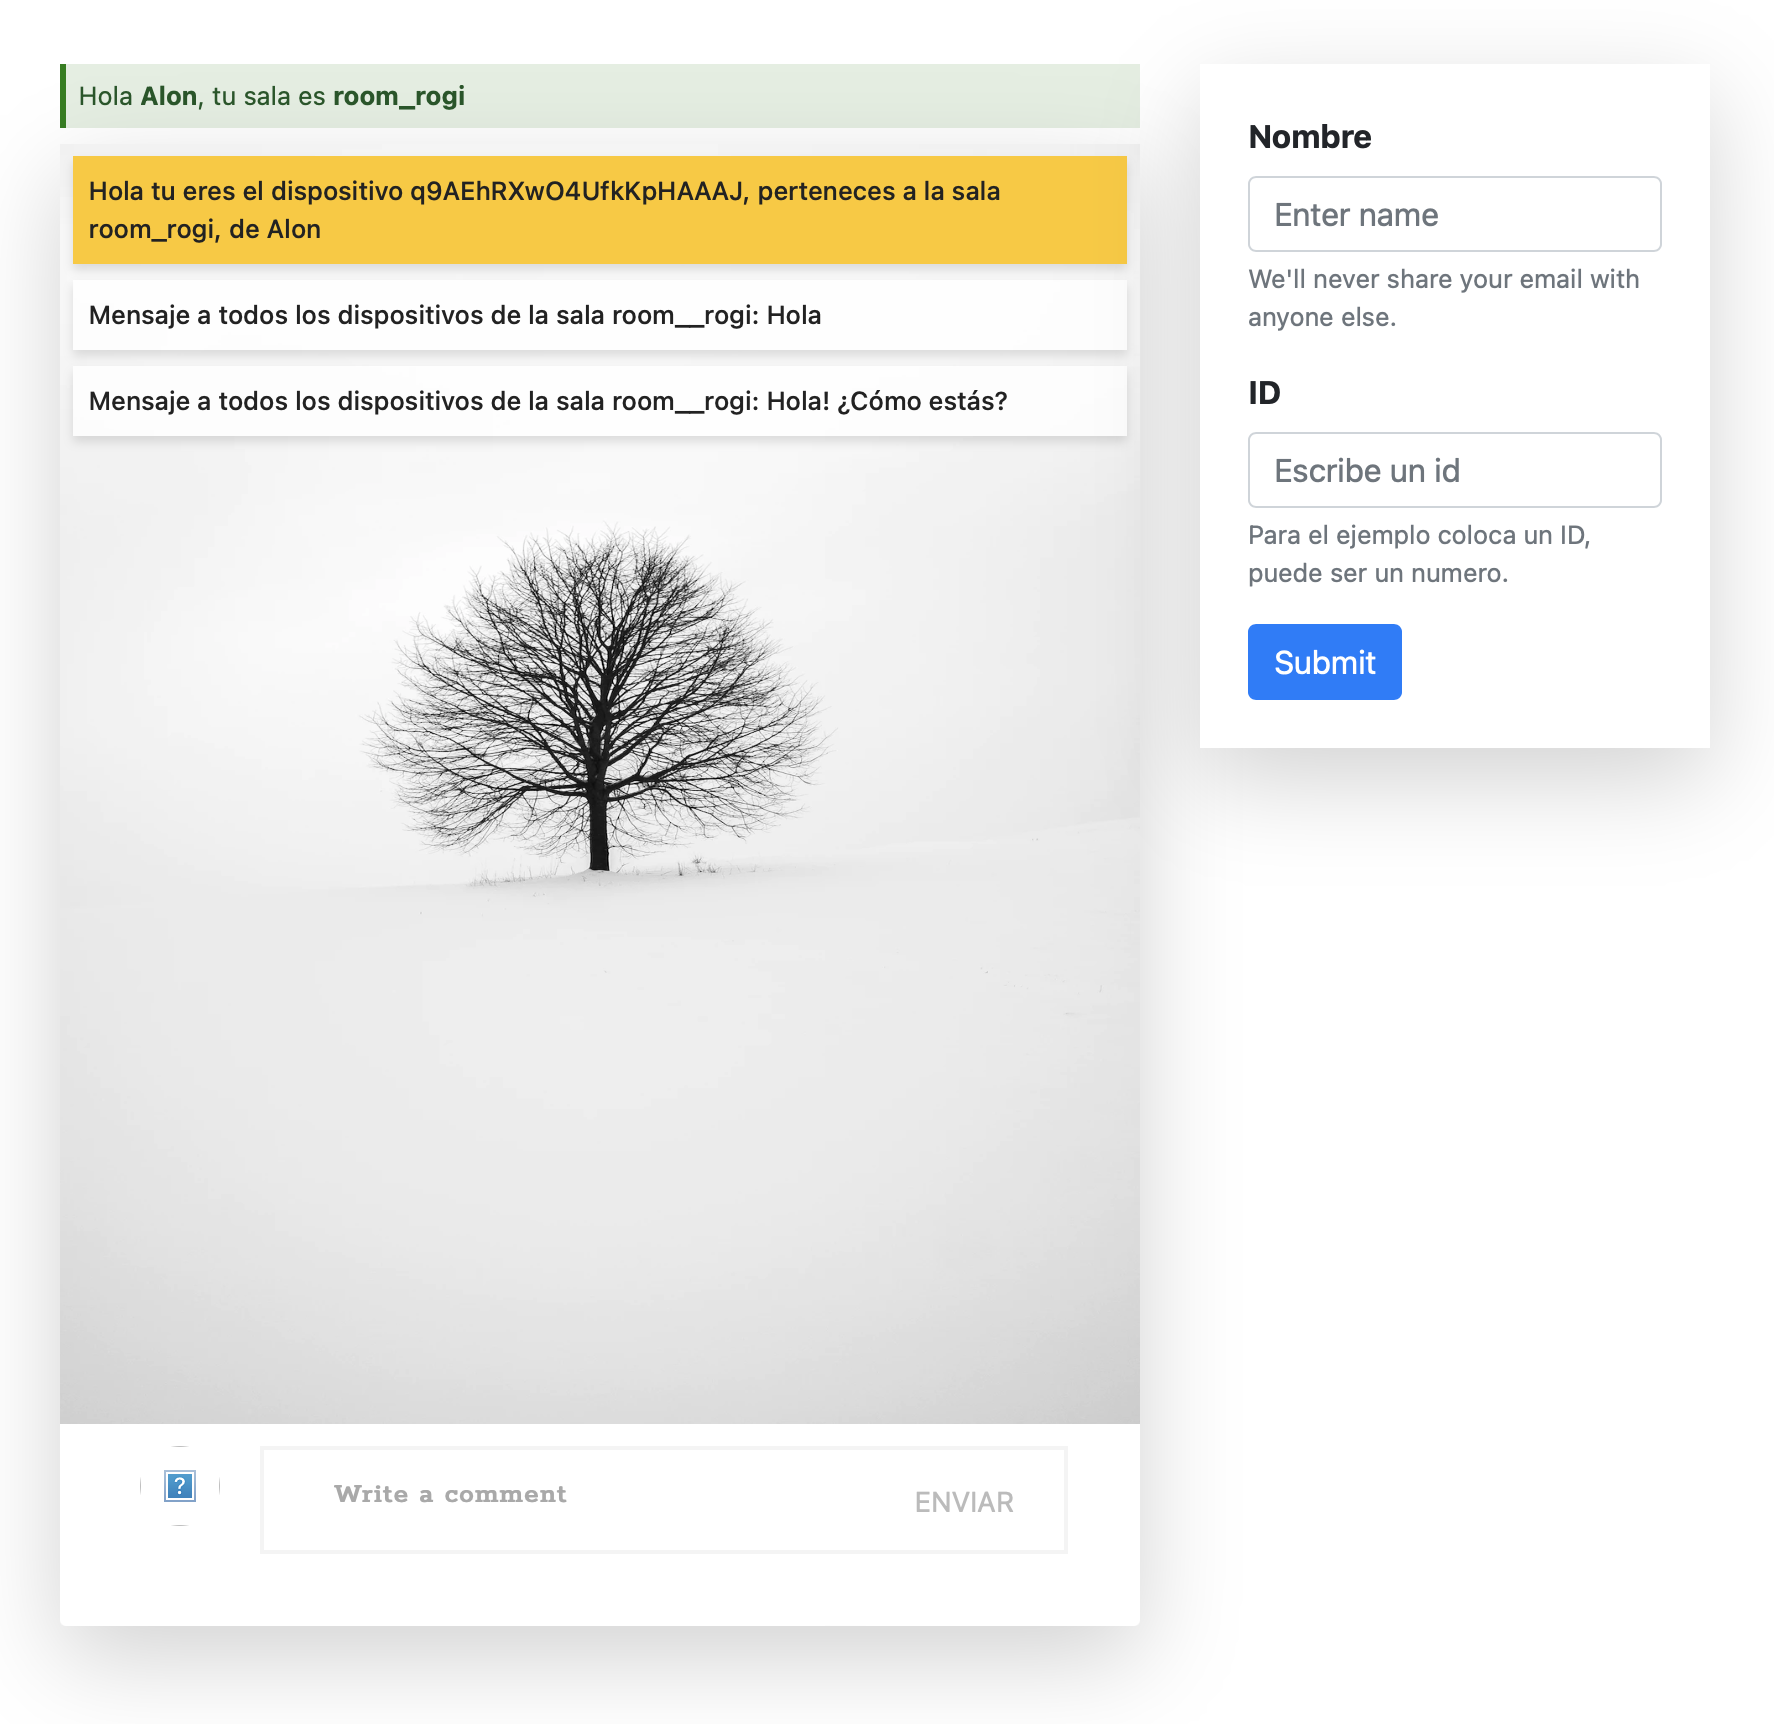
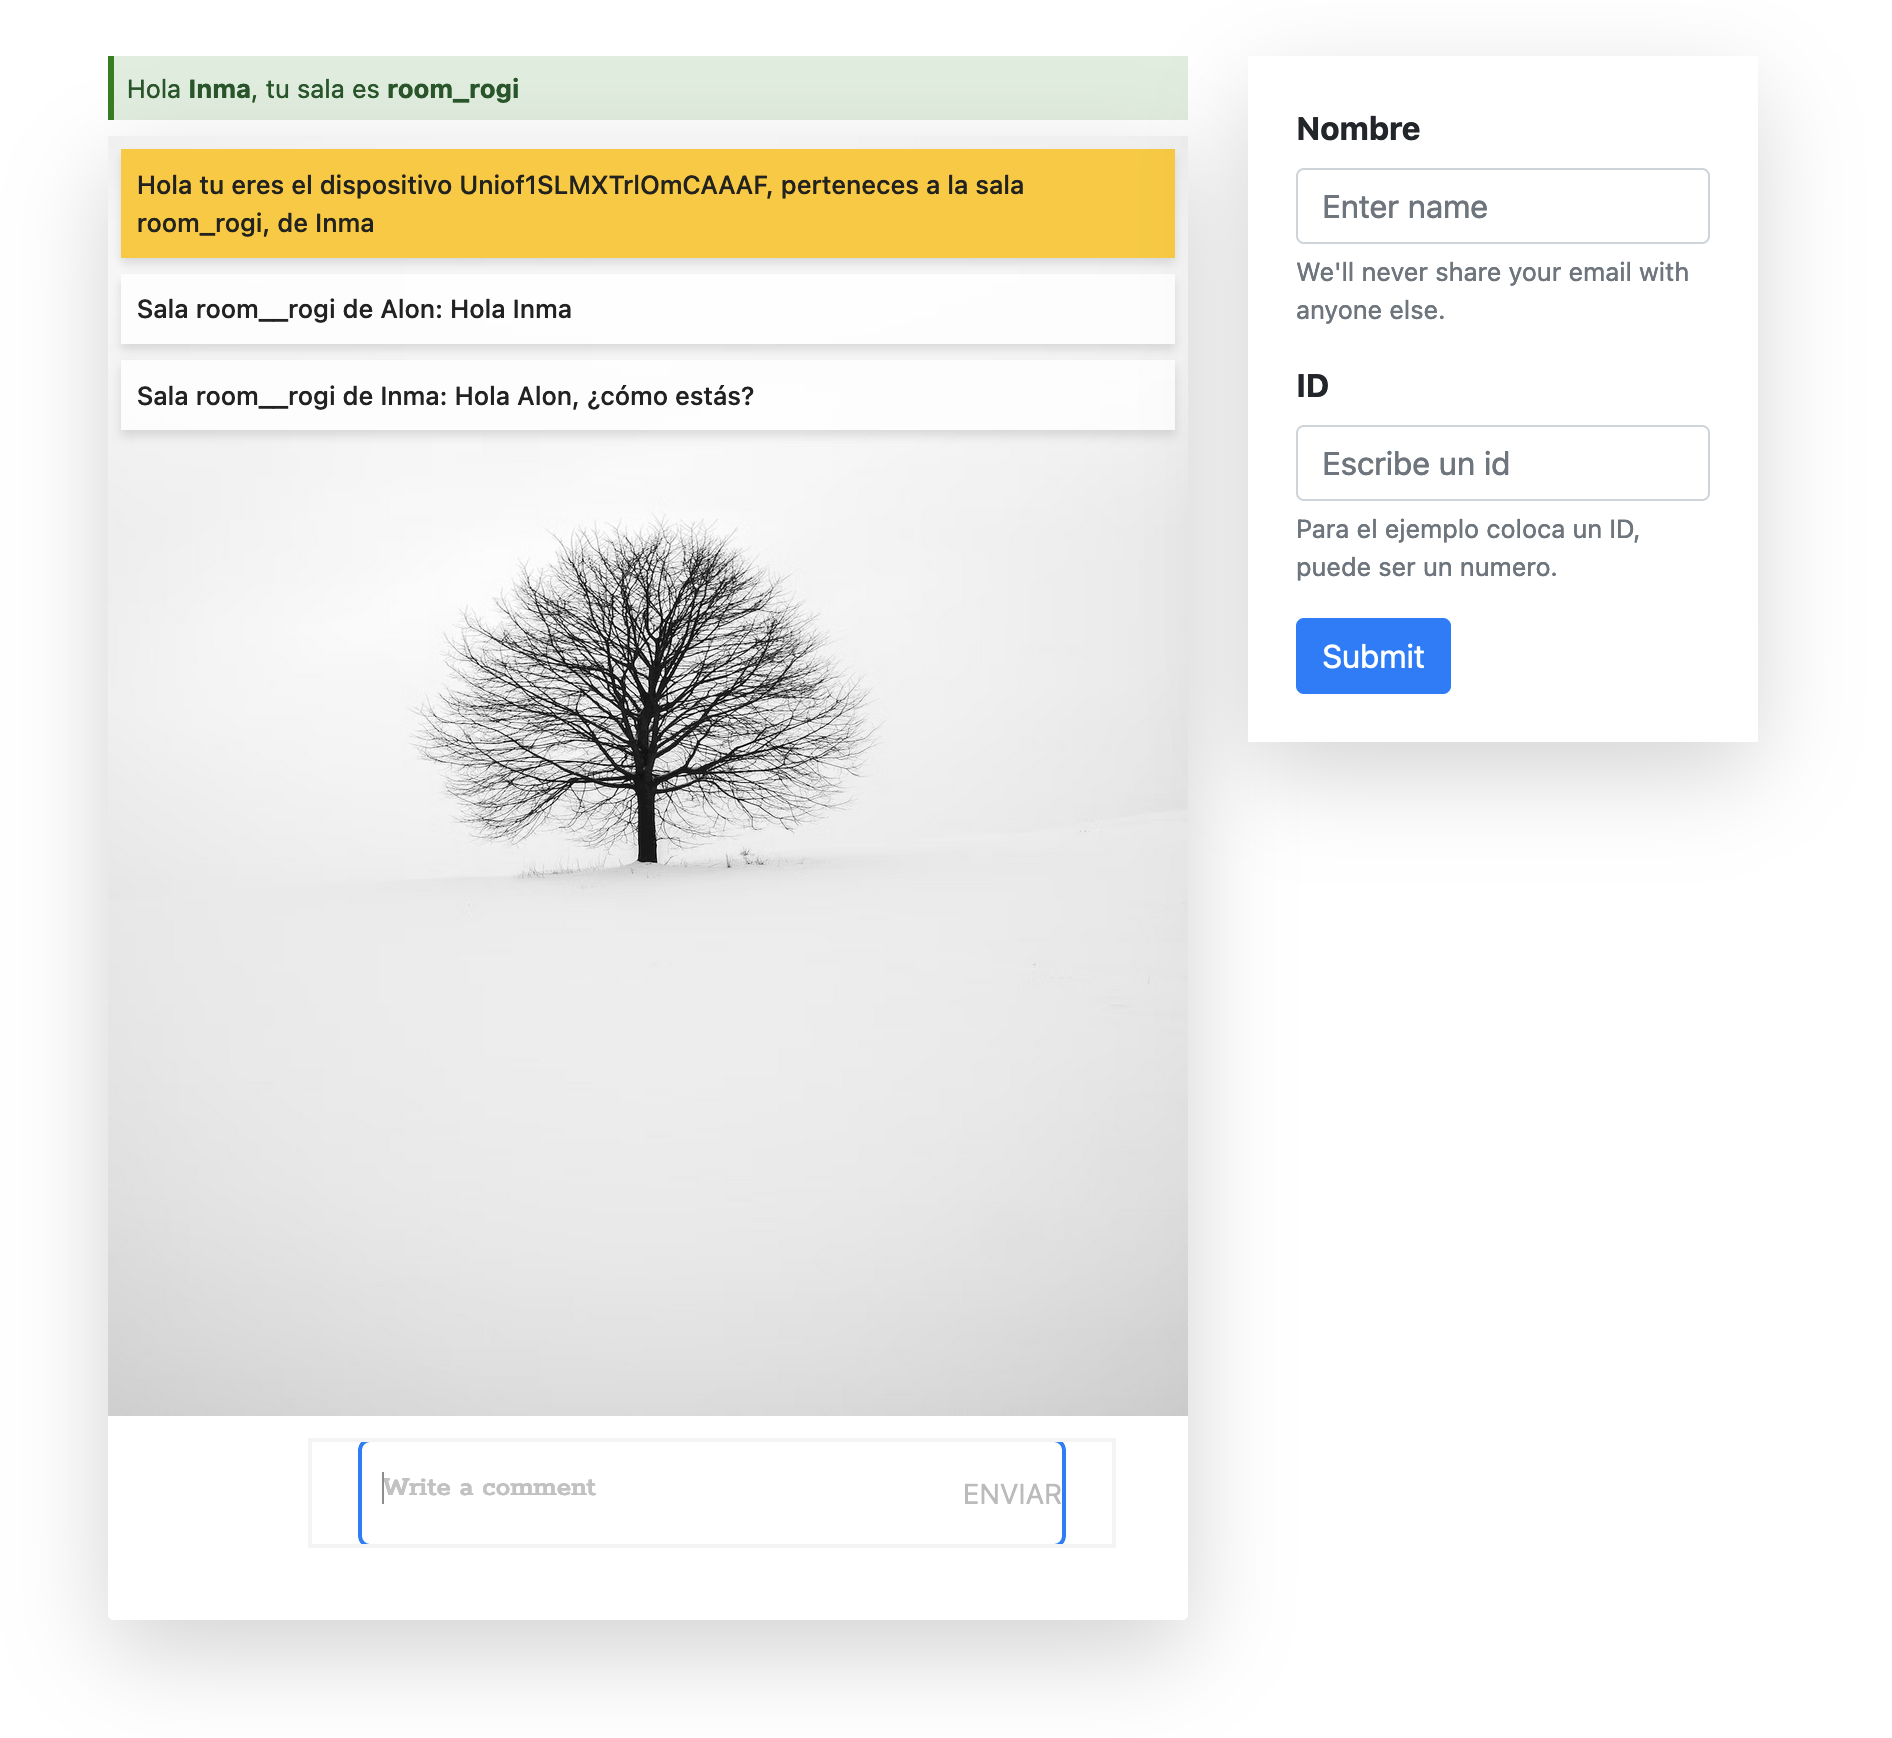
Mejoras para ver el emisor del mensaje

diff --git a/back_node/server.js b/back_node/server.js
@@ -88,7 +88,7 @@ io.on('connection', function (socket) {
                     const inPayload = res.payload;
 
                     io.to(`room_${inPayloadCookie.id}`).emit('message',{
-                        msg: `Mensaje a todos los dispositivos de la sala room__${inPayloadCookie.id}: ${inPayload.message}`
+                        msg: `Sala room__${inPayloadCookie.id} de ${inPayloadCookie.user}: ${inPayload.message}`
                     });
 
                     break;
